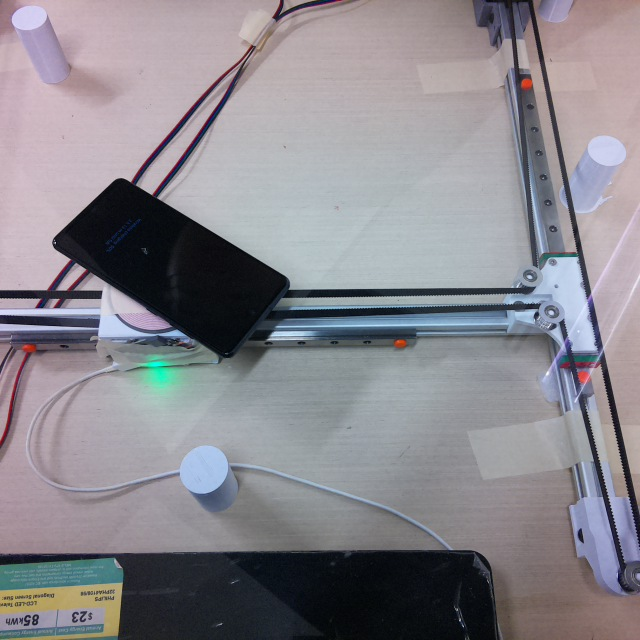
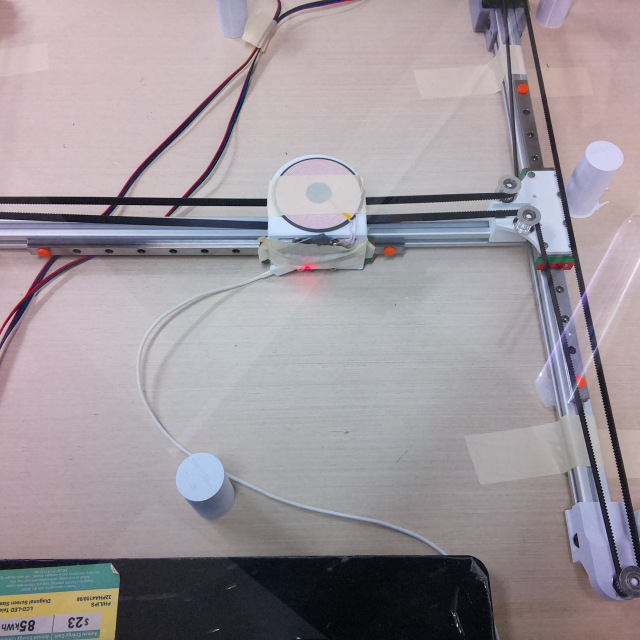
t

diff --git a/remap.py b/remap.py
@@ -6,10 +6,10 @@ def remap_coor(x,y):
     # Define the four corners in the image
     # from the image perspective
     image_points = np.array([
-        [331., 100.], # top right (origin)
-        [341., 288.], # bottom right
-        [ 91., 292.], # bottom left
-        [116., 100.], # top left
+        [329., 101.], # top right (origin)
+        [334., 289.], # bottom right
+        [ 86., 290.], # bottom left
+        [115., 104.], # top left
     ], dtype=np.float32)
 
     # Define the real-world coordinates of the four corners
